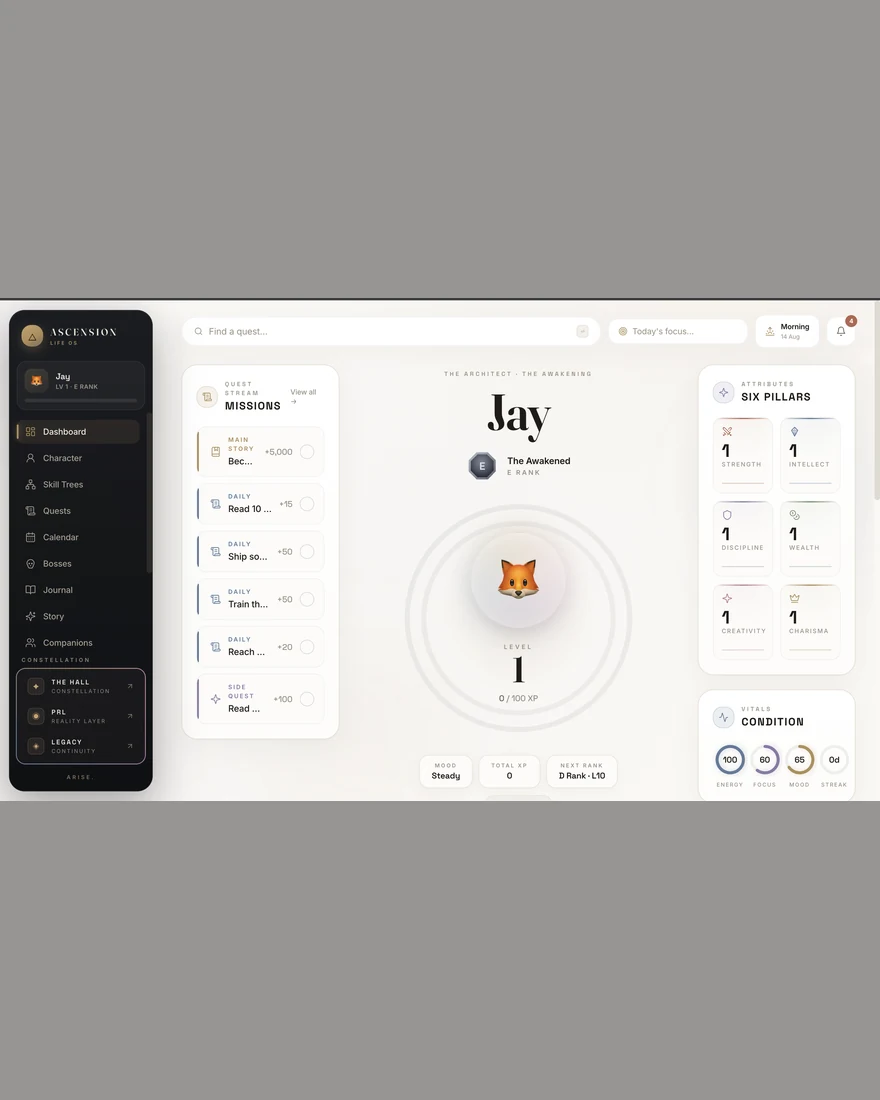
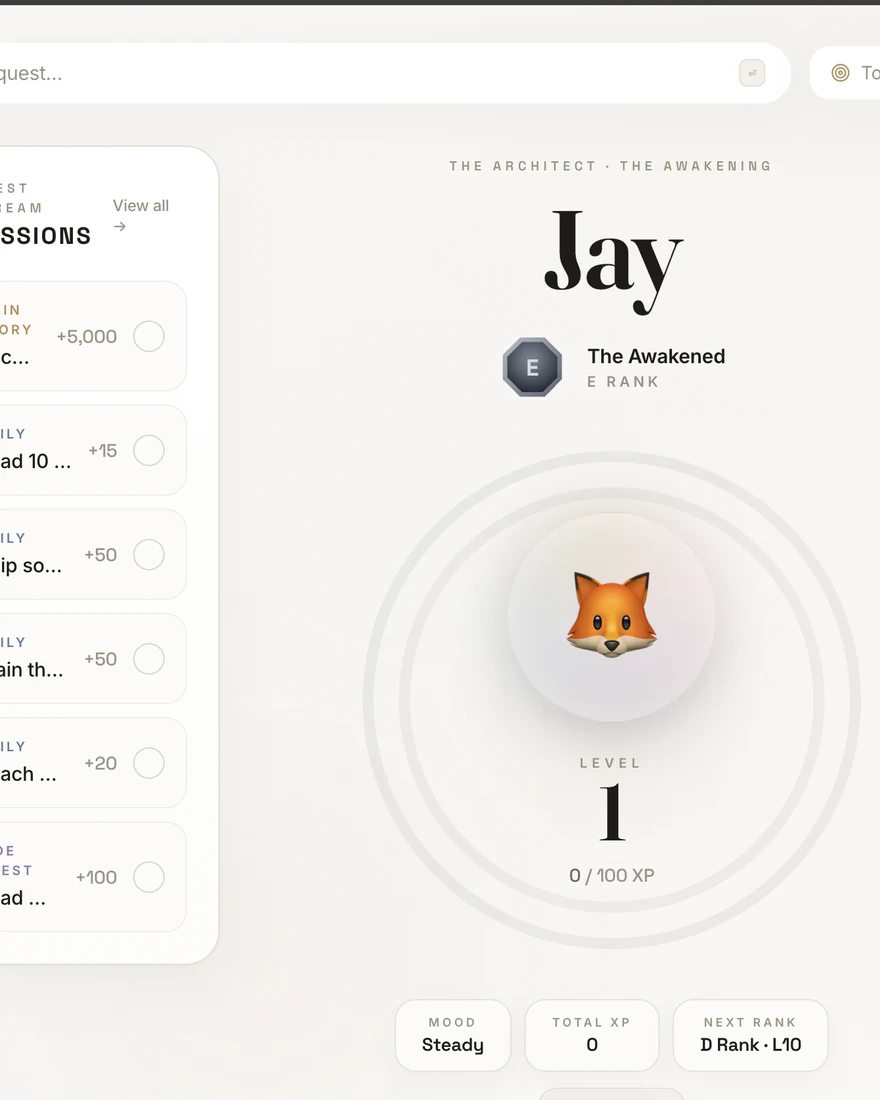
Make all project screenshots full-bleed cover crops to fill cards completely

diff --git a/index.html b/index.html
@@ -244,7 +244,7 @@
         <div class="work__cell" data-title="Transaction Graph Engine" data-stack="Python · TypeScript">
           <a class="card project-card" href="https://github.com/BYTEJAYS/TRANSACTION-GRAPH-ENGINE" target="_blank" rel="noopener" data-project-card>
             <div class="project-card__visual">
-              <img class="project-card__image" src="assets/images/projects/transaction-graph-engine.webp" alt="" loading="lazy" decoding="async" width="880" height="1100" />
+              <img class="project-card__image" src="assets/images/projects/transaction-graph-engine.webp?v=3" alt="" loading="lazy" decoding="async" width="880" height="1100" />
             </div>
             <div class="project-card__top">
               <span class="project-card__number" aria-hidden="true">01</span>
@@ -261,7 +261,7 @@
         <div class="work__cell" data-title="Personal Reality Layer" data-stack="Python · Next.js">
           <a class="card project-card" href="https://github.com/BYTEJAYS/PERSONAL-REALITY-LAYER" target="_blank" rel="noopener" data-project-card>
             <div class="project-card__visual">
-              <img class="project-card__image" src="assets/images/projects/personal-reality-layer.webp" alt="" loading="lazy" decoding="async" width="880" height="1100" />
+              <img class="project-card__image" src="assets/images/projects/personal-reality-layer.webp?v=3" alt="" loading="lazy" decoding="async" width="880" height="1100" />
             </div>
             <div class="project-card__top">
               <span class="project-card__number" aria-hidden="true">02</span>
@@ -278,7 +278,7 @@
         <div class="work__cell" data-title="Ascension" data-stack="Next.js 14 · TypeScript">
           <a class="card project-card" href="https://github.com/BYTEJAYS/ascension" target="_blank" rel="noopener" data-project-card>
             <div class="project-card__visual">
-              <img class="project-card__image" src="assets/images/projects/ascension.webp" alt="" loading="lazy" decoding="async" width="880" height="1100" />
+              <img class="project-card__image" src="assets/images/projects/ascension.webp?v=3" alt="" loading="lazy" decoding="async" width="880" height="1100" />
             </div>
             <div class="project-card__top">
               <span class="project-card__number" aria-hidden="true">03</span>
@@ -295,7 +295,7 @@
         <div class="work__cell" data-title="Proctor" data-stack="Python · WebRTC">
           <a class="card project-card" href="https://github.com/BYTEJAYS/PROCTOR_APP" target="_blank" rel="noopener" data-project-card>
             <div class="project-card__visual">
-              <img class="project-card__image" src="assets/images/projects/proctor_app.webp" alt="" loading="lazy" decoding="async" width="880" height="1100" />
+              <img class="project-card__image" src="assets/images/projects/proctor_app.webp?v=3" alt="" loading="lazy" decoding="async" width="880" height="1100" />
             </div>
             <div class="project-card__top">
               <span class="project-card__number" aria-hidden="true">04</span>
@@ -312,7 +312,7 @@
         <div class="work__cell" data-title="BLING Blue Team" data-stack="Python · FastAPI">
           <a class="card project-card" href="https://github.com/BYTEJAYS/bling-blue-team" target="_blank" rel="noopener" data-project-card>
             <div class="project-card__visual">
-              <img class="project-card__image" src="assets/images/projects/bling-blue-team.webp" alt="" loading="lazy" decoding="async" width="880" height="1100" />
+              <img class="project-card__image" src="assets/images/projects/bling-blue-team.webp?v=3" alt="" loading="lazy" decoding="async" width="880" height="1100" />
             </div>
             <div class="project-card__top">
               <span class="project-card__number" aria-hidden="true">05</span>
@@ -329,7 +329,7 @@
         <div class="work__cell" data-title="Project Legacy" data-stack="Python · TypeScript">
           <a class="card project-card" href="https://github.com/BYTEJAYS/legacy" target="_blank" rel="noopener" data-project-card>
             <div class="project-card__visual">
-              <img class="project-card__image" src="assets/images/projects/legacy.webp" alt="" loading="lazy" decoding="async" width="880" height="1100" />
+              <img class="project-card__image" src="assets/images/projects/legacy.webp?v=3" alt="" loading="lazy" decoding="async" width="880" height="1100" />
             </div>
             <div class="project-card__top">
               <span class="project-card__number" aria-hidden="true">06</span>
@@ -346,7 +346,7 @@
         <div class="work__cell" data-title="The Constellation" data-stack="TypeScript">
           <a class="card project-card" href="https://github.com/BYTEJAYS/constellation" target="_blank" rel="noopener" data-project-card>
             <div class="project-card__visual">
-              <img class="project-card__image" src="assets/images/projects/constellation.webp" alt="" loading="lazy" decoding="async" width="880" height="1100" />
+              <img class="project-card__image" src="assets/images/projects/constellation.webp?v=3" alt="" loading="lazy" decoding="async" width="880" height="1100" />
             </div>
             <div class="project-card__top">
               <span class="project-card__number" aria-hidden="true">07</span>

diff --git a/tools/projects/process_screenshots.py b/tools/projects/process_screenshots.py
@@ -44,13 +44,13 @@ CHROME_CROP = 242             # px of macOS Chrome UI to strip from these three
 
 # repo -> (source filename on Desktop, top-crop px, treatment)
 SOURCES = {
-    "TRANSACTION-GRAPH-ENGINE": ("TGIE.png", CHROME_CROP, "pad"),
+    "TRANSACTION-GRAPH-ENGINE": ("TGIE.png", CHROME_CROP, "cover"),
     "PERSONAL-REALITY-LAYER":   ("PERSONAL REALITY LAYER.png", 0, "cover"),
-    "ascension":                ("ASCENSION.png", 0, "pad"),
-    "PROCTOR_APP":              ("PROCTOR APP.png", CHROME_CROP, "pad"),
+    "ascension":                ("ASCENSION.png", 0, "cover"),
+    "PROCTOR_APP":              ("PROCTOR APP.png", CHROME_CROP, "cover"),
     "bling-blue-team":          ("BLING BLUE TEAM.png", 0, "cover"),
-    "legacy":                   ("LEGACY.png", 0, "pad"),
-    "constellation":            ("CONSTELLATION.png", CHROME_CROP, "pad"),
+    "legacy":                   ("LEGACY.png", 0, "cover"),
+    "constellation":            ("CONSTELLATION.png", CHROME_CROP, "cover"),
 }
 
 

diff --git a/tools/projects/build_cards.py b/tools/projects/build_cards.py
@@ -28,7 +28,7 @@ DEFAULT_IMAGE = "assets/images/projects/placeholder-{n:02d}.svg"
 CARD = """        <div class="work__cell" data-title="{title}" data-stack="{stack}">
           <a class="card project-card" href="{url}" target="_blank" rel="noopener" data-project-card>
             <div class="project-card__visual">
-              <img class="project-card__image" src="{image}" alt="" loading="lazy" decoding="async" width="880" height="1100" />
+              <img class="project-card__image" src="{image}?v=3" alt="" loading="lazy" decoding="async" width="880" height="1100" />
             </div>
             <div class="project-card__top">
               <span class="project-card__number" aria-hidden="true">{number:02d}</span>
